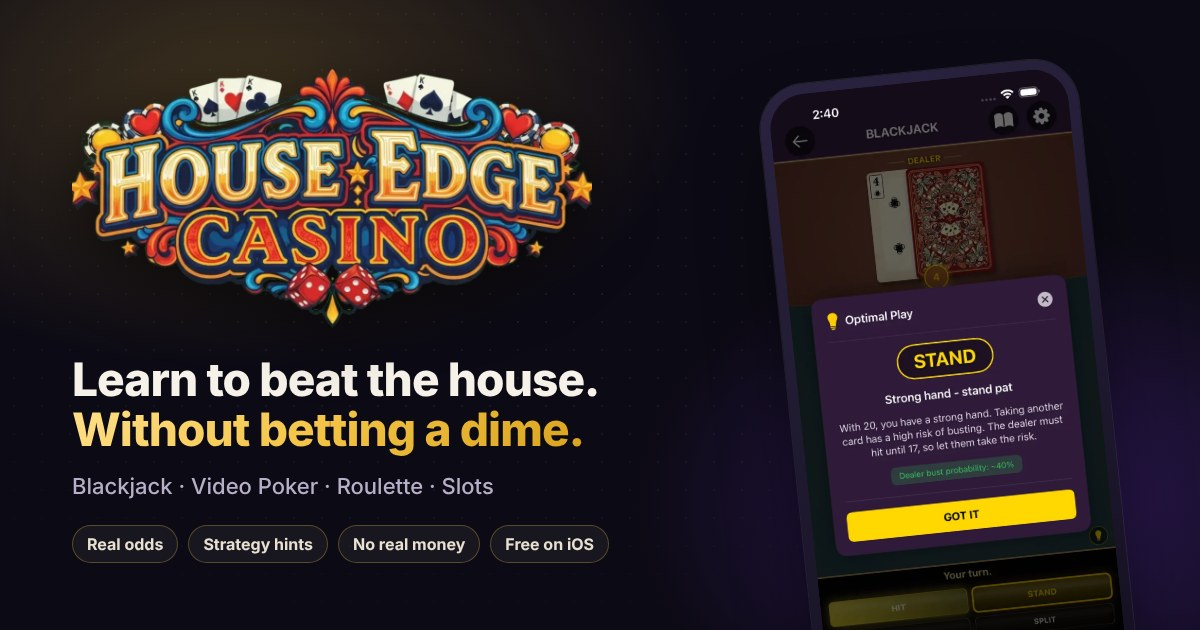
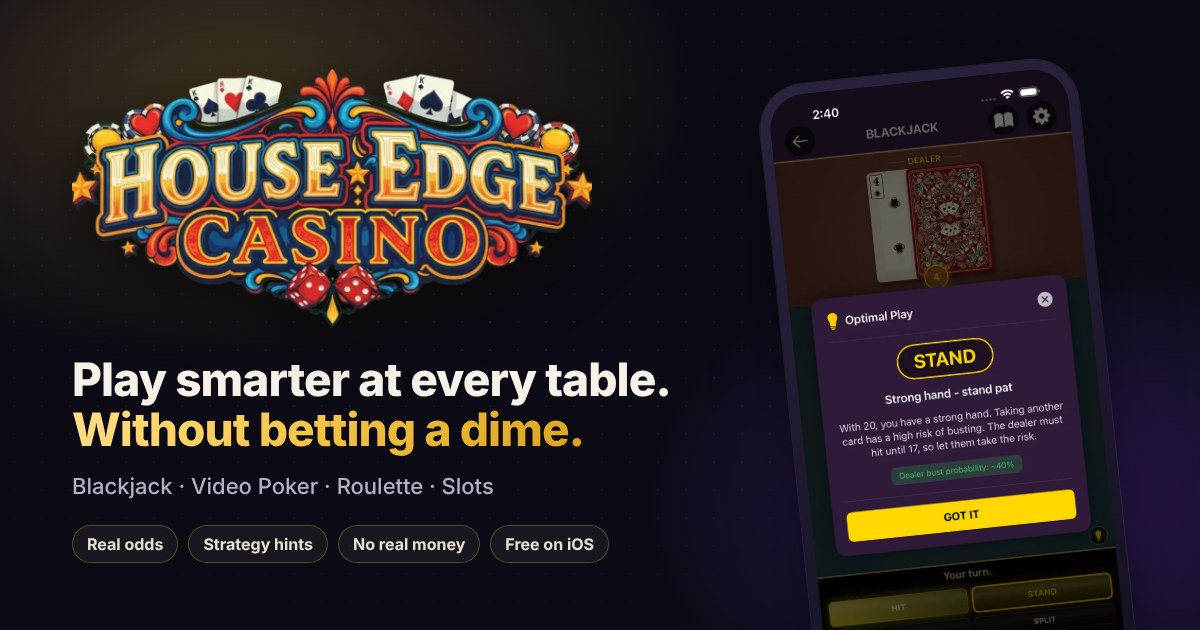
Define weekly article standards and a no-promises claims policy
- Playbook: the weekly deliverable is an article for the player base
  with an honest tie-in to practicing in the app; adds a claims policy
  (no promises of winning, no betting systems as effective, conservative
  bankroll advice, standard math-based strategy only) and more backlog
  topics; the fact-check reviewer now also audits advice quality
- verify.sh: block promise language such as "win more", "beat the
  house", "guaranteed"
- Home hero reworded from "Learn to beat the house" to "Play smarter at
  every table"; share image regenerated; two smaller rewordings

Claude-Session: https://claude.ai/code/session_01DnojvmfXF3oKviRPpDrhhA

Changed region(s): [[0.0617, 0.573, 0.555, 0.6333]]

diff --git a/guides/blackjack-basic-strategy.html b/guides/blackjack-basic-strategy.html
@@ -153,7 +153,7 @@
           <h3>Hard totals (no ace, or an ace counted as 1)</h3>
           <div class="strategy-chart"><table><caption class="sr-only">Basic strategy for hard totals</caption><thead><tr><th>Your hand</th><th>2</th><th>3</th><th>4</th><th>5</th><th>6</th><th>7</th><th>8</th><th>9</th><th>10</th><th>A</th></tr></thead><tbody><tr><th>5–8</th><td class="H">H</td><td class="H">H</td><td class="H">H</td><td class="H">H</td><td class="H">H</td><td class="H">H</td><td class="H">H</td><td class="H">H</td><td class="H">H</td><td class="H">H</td></tr><tr><th>9</th><td class="H">H</td><td class="D">D</td><td class="D">D</td><td class="D">D</td><td class="D">D</td><td class="H">H</td><td class="H">H</td><td class="H">H</td><td class="H">H</td><td class="H">H</td></tr><tr><th>10</th><td class="D">D</td><td class="D">D</td><td class="D">D</td><td class="D">D</td><td class="D">D</td><td class="D">D</td><td class="D">D</td><td class="D">D</td><td class="H">H</td><td class="H">H</td></tr><tr><th>11</th><td class="D">D</td><td class="D">D</td><td class="D">D</td><td class="D">D</td><td class="D">D</td><td class="D">D</td><td class="D">D</td><td class="D">D</td><td class="D">D</td><td class="D">D</td></tr><tr><th>12</th><td class="H">H</td><td class="H">H</td><td class="S">S</td><td class="S">S</td><td class="S">S</td><td class="H">H</td><td class="H">H</td><td class="H">H</td><td class="H">H</td><td class="H">H</td></tr><tr><th>13–16</th><td class="S">S</td><td class="S">S</td><td class="S">S</td><td class="S">S</td><td class="S">S</td><td class="H">H</td><td class="H">H</td><td class="H">H</td><td class="H">H</td><td class="H">H</td></tr><tr><th>17+</th><td class="S">S</td><td class="S">S</td><td class="S">S</td><td class="S">S</td><td class="S">S</td><td class="S">S</td><td class="S">S</td><td class="S">S</td><td class="S">S</td><td class="S">S</td></tr></tbody></table></div>
           <p><strong>Why:</strong> With 12 through 16 you are in the danger zone: hitting risks a bust, standing hopes the dealer busts. Against a dealer 2 through 6 the dealer busts often enough that standing wins more. Against 7 or higher the dealer usually makes a hand, so you must hit and take your chances. The one exception, hitting 12 against a 2 or 3, is because those cards bust the dealer less often than people assume.</p>
-          <p><strong>Doubling 10 and 11</strong> is the most profitable play in the game. You have a strong chance of landing a 20 or 21 with one card, and you want as much money out as possible when the odds favor you.</p>
+          <p><strong>Doubling 10 and 11</strong> is the highest expected-value play in the game. You have a strong chance of landing a 20 or 21 with one card, and you want as much money out as possible when the odds favor you.</p>
 
           <h3>Soft totals (an ace counted as 11)</h3>
           <div class="strategy-chart"><table><caption class="sr-only">Basic strategy for soft totals</caption><thead><tr><th>Your hand</th><th>2</th><th>3</th><th>4</th><th>5</th><th>6</th><th>7</th><th>8</th><th>9</th><th>10</th><th>A</th></tr></thead><tbody><tr><th>A,2 – A,3</th><td class="H">H</td><td class="H">H</td><td class="H">H</td><td class="D">D</td><td class="D">D</td><td class="H">H</td><td class="H">H</td><td class="H">H</td><td class="H">H</td><td class="H">H</td></tr><tr><th>A,4 – A,5</th><td class="H">H</td><td class="H">H</td><td class="D">D</td><td class="D">D</td><td class="D">D</td><td class="H">H</td><td class="H">H</td><td class="H">H</td><td class="H">H</td><td class="H">H</td></tr><tr><th>A,6</th><td class="H">H</td><td class="D">D</td><td class="D">D</td><td class="D">D</td><td class="D">D</td><td class="H">H</td><td class="H">H</td><td class="H">H</td><td class="H">H</td><td class="H">H</td></tr><tr><th>A,7</th><td class="D">D</td><td class="D">D</td><td class="D">D</td><td class="D">D</td><td class="D">D</td><td class="S">S</td><td class="S">S</td><td class="H">H</td><td class="H">H</td><td class="H">H</td></tr><tr><th>A,8</th><td class="S">S</td><td class="S">S</td><td class="S">S</td><td class="S">S</td><td class="D">D</td><td class="S">S</td><td class="S">S</td><td class="S">S</td><td class="S">S</td><td class="S">S</td></tr><tr><th>A,9</th><td class="S">S</td><td class="S">S</td><td class="S">S</td><td class="S">S</td><td class="S">S</td><td class="S">S</td><td class="S">S</td><td class="S">S</td><td class="S">S</td><td class="S">S</td></tr></tbody></table></div>

diff --git a/index.html b/index.html
@@ -18,13 +18,13 @@
 
   <meta property="og:type" content="website" />
   <meta property="og:site_name" content="House Edge Casino" />
-  <meta property="og:title" content="House Edge Casino — Learn to beat the house, without betting a dime" />
+  <meta property="og:title" content="House Edge Casino — Play smarter at every table, without betting a dime" />
   <meta property="og:description" content="A realistic casino simulator for iPhone and iPad with blackjack, video poker, roulette, and slots. Real odds, real-time strategy coaching, no real money." />
   <meta property="og:url" content="https://houseedgecasino.com/" />
   <meta property="og:image" content="https://houseedgecasino.com/assets/img/og-image.jpg" />
   <meta property="og:image:width" content="1200" />
   <meta property="og:image:height" content="630" />
-  <meta property="og:image:alt" content="House Edge Casino app logo with the tagline Learn to beat the house" />
+  <meta property="og:image:alt" content="House Edge Casino app logo with the tagline Play smarter at every table" />
   <meta name="twitter:card" content="summary_large_image" />
   <meta name="twitter:title" content="House Edge Casino — Free Casino Simulator &amp; Strategy Trainer" />
   <meta name="twitter:description" content="Blackjack, video poker, roulette, and slots with real odds and real-time strategy hints. Free on the App Store." />
@@ -126,7 +126,7 @@
         <div>
           <span class="eyebrow reveal in">Free on the App Store · iPhone &amp; iPad</span>
           <img class="hero-logo reveal in" src="/assets/img/logo.webp" width="1100" height="600" alt="House Edge Casino" fetchpriority="high" />
-          <h1 class="reveal in d1">Learn to beat the house. <span>Without betting a dime.</span></h1>
+          <h1 class="reveal in d1">Play smarter at every table. <span>Without betting a dime.</span></h1>
           <p class="lede reveal in d2">
             House Edge Casino is a realistic casino simulator with blackjack, video poker, roulette, and slots.
             Real Vegas rules, true random odds, and a built-in coach that shows you the optimal play on every hand.
@@ -325,7 +325,7 @@
           <div class="card reveal">
             <span class="icon-box"><svg viewBox="0 0 24 24" fill="none" stroke="currentColor" stroke-width="2" stroke-linecap="round" stroke-linejoin="round"><path d="M12 22s8-4 8-10V5l-8-3-8 3v7c0 6 8 10 8 10z"/><path d="M9 12l2 2 4-4"/></svg></span>
             <h3>Honest odds</h3>
-            <p>Outcomes are truly random and payouts match real casino rules. If a strategy works here, it is the same strategy that works on a real floor.</p>
+            <p>Outcomes are truly random and payouts match real casino rules. The math you learn here is the same math that applies on a real floor.</p>
           </div>
           <div class="card reveal d1">
             <span class="icon-box"><svg viewBox="0 0 24 24" fill="none" stroke="currentColor" stroke-width="2" stroke-linecap="round" stroke-linejoin="round"><circle cx="12" cy="12" r="9"/><path d="M8 12h8M12 8v8"/></svg></span>

diff --git a/docs/WEEKLY-UPDATE-PLAYBOOK.md b/docs/WEEKLY-UPDATE-PLAYBOOK.md
@@ -4,7 +4,33 @@ This document drives the scheduled weekly session that keeps houseedgecasino.com
 
 ## Goal
 
-Every week, ship one meaningful improvement that helps people find the site and decide to download House Edge Casino. Quality over quantity: one well-written, accurate page beats three thin ones.
+Every week, write a new article or substantively update an existing one that genuinely interests the player base: people who enjoy casino games and want to understand them better. Each article teaches a real technique or concept and shows, honestly, how House Edge Casino can be used to practice or learn it. The article is the main weekly deliverable; the freshness check and small site improvements ride along with it. Quality over quantity: one well-written, accurate article beats three thin ones.
+
+## Article standards
+
+**Audience.** Casual and intermediate casino players, and people curious about the games before a trip. Assume intelligence, not expertise. Explain the math; do not hide it.
+
+**Angle.** Every article has one concrete thing the reader can practice: a strategy decision, a bet type, a pay-table skill, a bankroll habit, a misconception to unlearn. Then show how to practice it in the app, naming the actual feature: Learn Mode hints, the strategy chart, the perfect-move streak, Vegas vs Fun odds, the "Understanding Casino Games" lessons, run statistics, tutorials. The tie-in is "practice until it is automatic, with nothing at risk," never "use the app and you will win."
+
+**Length and shape.** 900 to 1,600 words. One H1, descriptive H2s, tables for odds and pay tables, a short FAQ, a download callout. Follow the page recipe below.
+
+**Voice.** Direct, warm, specific. No hype, no exclamation marks, no filler.
+
+## Claims policy (read this twice)
+
+The site must never make a false statement, give bad advice, or promise an outcome. Concretely:
+
+- **Never promise results.** No "you'll win more," "beat the house," "beat the casino," "come out ahead," "turn the odds in your favor," "guaranteed," "can't lose," or any phrasing that implies playing better leads to profit. The honest framing is: optimal play lowers the house edge, loses less over time, and makes the game last longer. Every game in the app still favors the house, and articles say so when relevant.
+- **Never present a betting system as effective.** Martingale, Fibonacci, d'Alembert, "due" numbers, hot and cold machines, streak betting: these do not change expected value. They may be explained only to show why they fail.
+- **Card counting:** it may be described as a real technique with a thin edge under specific real-world conditions, but the app does not teach counting, so do not sell it as something to practice there. Basic strategy is the foundation and that is what the app coaches.
+- **Advice must be the standard, published, math-based advice** (basic strategy charts, Jacks or Better hold rankings, true odds vs payouts). If a figure cannot be stated with confidence, leave it out rather than guess. Cite the rule set the figure depends on (decks, dealer soft 17, pay table).
+- **Bankroll advice is conservative:** play with money you can afford to lose, set a session budget and time limit, never chase losses, treat the cost as entertainment. Never suggest bet sizing or play duration as a way to recover or profit.
+- **No encouragement to gamble more, longer, or with real money.** The app is a simulator for practice and entertainment; the site does not funnel people to real-money play.
+- **App claims must match the app.** Only describe features, rules, prices, and balances that exist in the House-Edge-Casino repo today.
+- **No fabricated social proof:** no ratings, review counts, download numbers, quotes, or testimonials.
+- **Keep the disclaimer** in the footer of every page and the 17+ note. Articles about any game include at least one sentence that the house always has an edge.
+
+The independent fact-check reviewer in Gate 3 is told to hunt specifically for violations of this policy. Fix every one it finds.
 
 ## Ground rules
 
@@ -37,7 +63,7 @@ Three independent gates. All three must pass.
 
 **Gate 2: render check.** Serve locally with `python3 -m http.server 8765` and use Playwright/Chromium (`require('playwright')`, `NODE_PATH=/opt/node-tools/node_modules` if needed) to load every page you changed at 1400px and 390px widths with `networkidle`. Fail on any console error, any 4xx/5xx response, or any horizontal overflow at 390px (`document.documentElement.scrollWidth > 390`). Take a full-page screenshot of each and look at it. Text overlapping, missing images, or an empty section is a fail.
 
-**Gate 3: independent fact check.** Spawn a separate reviewer agent (the Agent tool) with a fresh context. Give it only: the `git diff` of your changes, the path to the app repo, and this instruction: "You are fact-checking marketing copy for an iOS app before it is published. For every factual claim about the app in this diff (rules, odds, pay tables, prices, balances, themes, features, device support, counts), find the evidence in the app repo (README.md, Swift source under 'House Edge Casino/', theme.json files, the Xcode project) and quote the file and line. For every strategy or math claim (house edges, probabilities, basic strategy plays, payouts), verify it against the standard published figures you know. Report a numbered list: each claim, VERIFIED with evidence, or UNVERIFIED/WRONG with what the evidence actually says. Also flag anything that implies real-money gambling, targets minors, or makes promises about winning. Be adversarial. Do not approve a claim you could not trace." Every UNVERIFIED or WRONG item must be fixed or removed, then re-run the reviewer on the new diff until it reports zero problems. Do not skip this gate for "small" changes; a wrong number on a strategy page is exactly the kind of error that damages trust.
+**Gate 3: independent fact check.** Spawn a separate reviewer agent (the Agent tool) with a fresh context. Give it only: the `git diff` of your changes, the path to the app repo, and this instruction: "You are fact-checking marketing copy for an iOS app before it is published. For every factual claim about the app in this diff (rules, odds, pay tables, prices, balances, themes, features, device support, counts), find the evidence in the app repo (README.md, Swift source under 'House Edge Casino/', theme.json files, the Xcode project) and quote the file and line. For every strategy or math claim (house edges, probabilities, basic strategy plays, payouts), verify it against the standard published figures you know. Report a numbered list: each claim, VERIFIED with evidence, or UNVERIFIED/WRONG with what the evidence actually says. Separately, review the advice itself as a gambling-math expert would: flag any recommendation that is wrong, that presents a betting system or superstition as effective, that encourages gambling more or longer, or that a careful expert would call harmful. Flag every sentence that promises or implies the reader will win, profit, beat the house, or come out ahead, including soft versions like 'turn the odds in your favor.' Flag anything that implies real-money gambling or targets minors. Be adversarial. Do not approve a claim you could not trace." Every UNVERIFIED or WRONG item must be fixed or removed, then re-run the reviewer on the new diff until it reports zero problems. Do not skip this gate for "small" changes; a wrong number on a strategy page is exactly the kind of error that damages trust.
 
 If any gate cannot be run (tooling missing, agent unavailable), do not push. Commit to a branch `weekly/YYYY-MM-DD` instead, push that branch, and report that the gate could not run.
 
@@ -65,7 +91,15 @@ If any gate cannot be run (tooling missing, agent unavailable), do not push. Com
 12. Guide: **Should you take even money on a blackjack?**
 13. Guide: **Soft hands in blackjack, explained**
 14. Guide: **Slots: Vegas odds vs Fun mode, what the app changes and why**
-15. Ongoing after the backlog is exhausted: refresh the oldest guide with new sections, improve internal linking, tighten meta descriptions, add FAQ entries from real support questions in `hockemalabs/houseedgecasino-support` issues.
+15. Guide: **How to practice blackjack splits and doubles** (the decisions players get wrong most, drilled with Learn Mode hints on).
+16. Guide: **Reading a video poker pay table in ten seconds** (what each row means, how to compare machines, why max coins matter).
+17. Guide: **Inside vs outside roulette bets for beginners** (volatility, bankroll life, the same edge either way).
+18. Guide: **What a perfect-move streak actually measures** (decision quality vs results, variance, why a long streak can still lose).
+19. Guide: **Why "dealer hits soft 17" matters** (what it changes in the chart and in the edge).
+20. Guide: **Slot paylines explained with the app's 25-line machine** (how lines pay, scatters, wilds, free spins).
+21. Guide: **Setting a session budget and time limit** (ties to the app's Set a Budget, Time Limits, and Speed of Play lessons).
+22. Guide: **Insurance and even money in blackjack: the same bad bet in two outfits.**
+23. Ongoing after the backlog is exhausted: refresh the oldest guide with new sections, improve internal linking, tighten meta descriptions, add FAQ entries from real support questions in `hockemalabs/houseedgecasino-support` issues.
 
 ## Things to never do
 

diff --git a/docs/UPDATE-LOG.md b/docs/UPDATE-LOG.md
@@ -2,6 +2,12 @@
 
 Newest first. One entry per weekly session.
 
+## 2026-10-11 — Claims policy and article standards
+
+- Playbook now defines the weekly deliverable as an article for the player base with an honest app tie-in, and adds a claims policy: no promises of winning, no betting systems presented as effective, conservative bankroll advice, standard math-based strategy only.
+- `scripts/verify.sh` blocks promise language (win more, beat the house, guaranteed, and similar).
+- Reworded the home hero from "Learn to beat the house" to "Play smarter at every table" and regenerated the share image; two smaller rewordings on the home page and the blackjack guide.
+
 ## 2026-10-11 — Full redesign (initial build)
 
 - Replaced the placeholder site with a new design: home page, four game landing pages (blackjack, video poker, roulette, slots), strategy guide index, first guide (blackjack basic strategy), support, privacy, 404.
